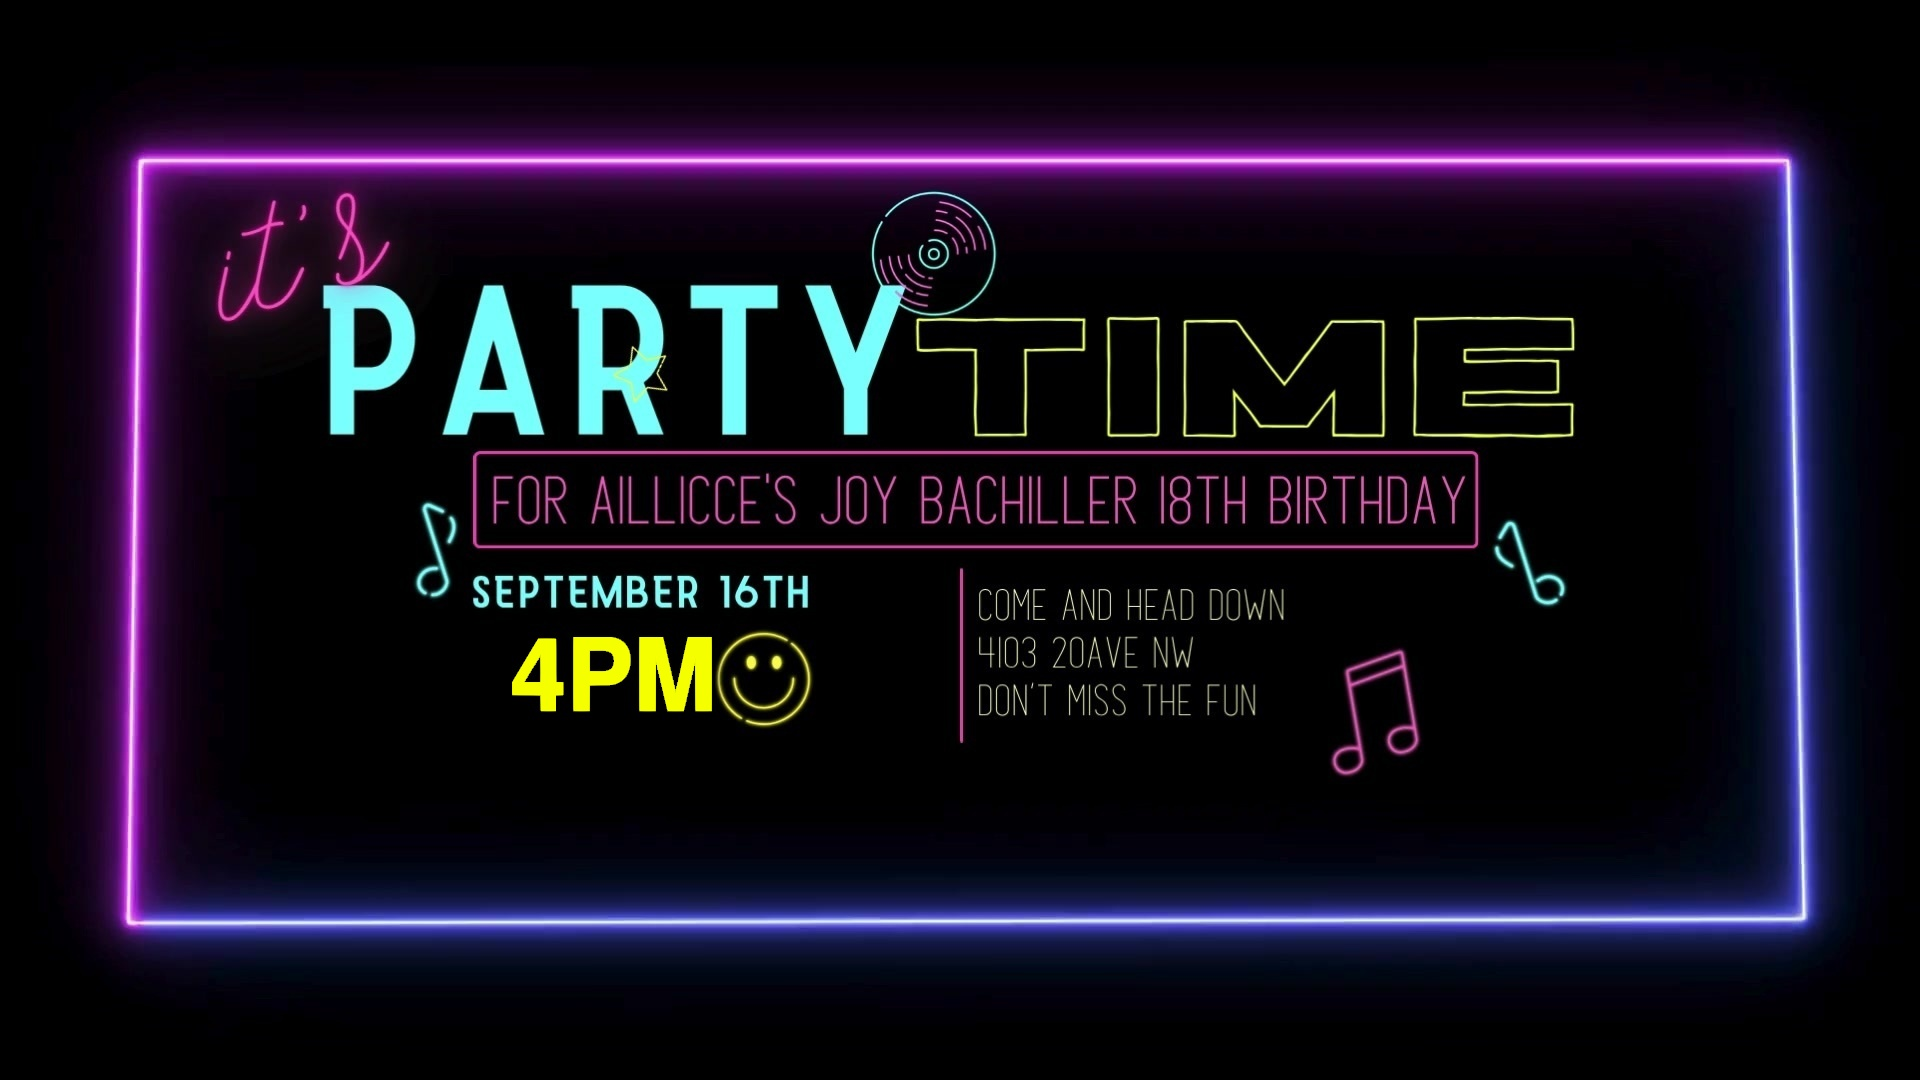
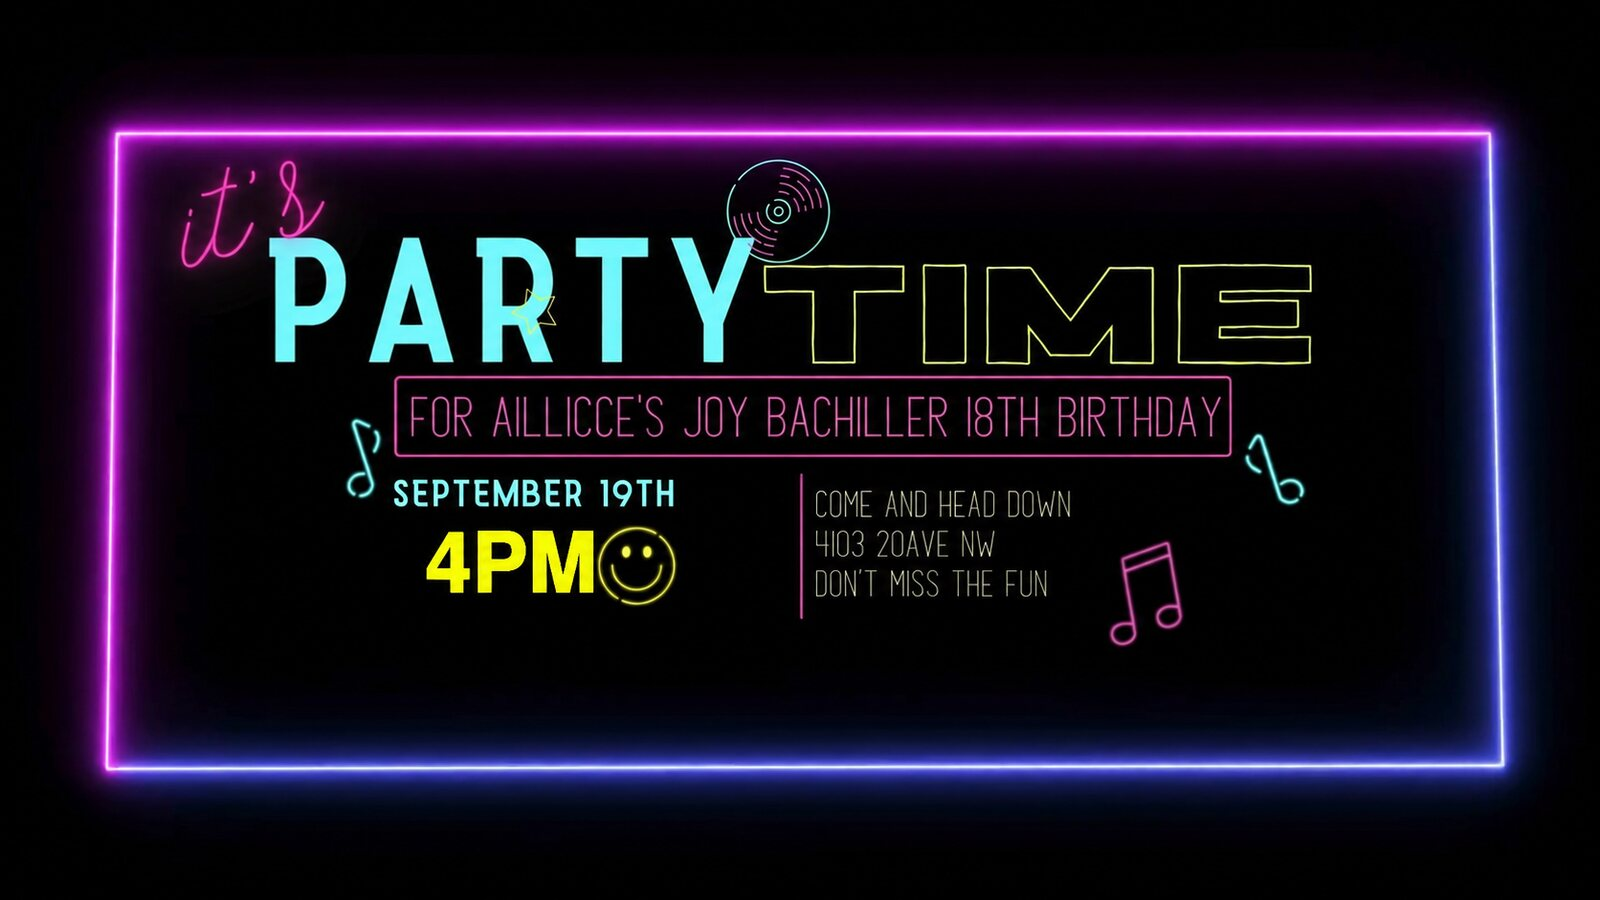
Update party date to September 19

diff --git a/index.html b/index.html
@@ -82,7 +82,7 @@
   <main class="deck" aria-label="Interactive birthday invitation">
     <section class="slide s1 active" aria-hidden="false"><button class="coin-start" type="button" aria-label="Insert coin and open invitation"><span class="coin-route" aria-hidden="true"></span><span class="coin" aria-hidden="true">18</span><span class="slot-glow" aria-hidden="true"></span><span class="coin-slot" aria-hidden="true"><span class="slot-label">COIN SLOT</span><span class="slot-opening"></span><span class="slot-lamp"></span></span><span class="coin-prompt" aria-live="polite">TAP TO INSERT COIN</span></button></section>
     <section class="slide unlock" aria-hidden="true"><div class="ring"></div><div class="panel"><div class="eyebrow">ACHIEVEMENT UNLOCKED</div><h1>18</h1><h2>Level up!</h2><p class="sub">Aillicce's Joy is turning eighteen.</p></div></section>
-    <section class="slide s3" aria-hidden="true"><img class="details-card" src="assets/invitation.jpg" alt="Party details for Aillicce's Joy's 18th birthday: September 16th at 4 PM." /></section>
+    <section class="slide s3" aria-hidden="true"><img class="details-card" src="assets/invitation.jpg" alt="Party details for Aillicce's Joy's 18th birthday: September 19th at 4 PM." /></section>
     <section class="slide s4 finale" aria-hidden="true"><div class="finale-sparks" aria-hidden="true"></div><div class="finale-badge" aria-hidden="true"><strong>18</strong><span>LVL CLEAR</span></div><div class="panel"><div class="eyebrow">MISSION ACCEPTED</div><h2>See you there!</h2><p class="sub">Birthday quest complete.</p><div class="finale-reward"><span>✦</span> PARTY MODE UNLOCKED <span>✦</span></div><button class="start replay" type="button">REPLAY</button></div></section>
   </main>
   <div class="hint">SAVE SLOT 07 · Click, tap, or use ← →</div>
